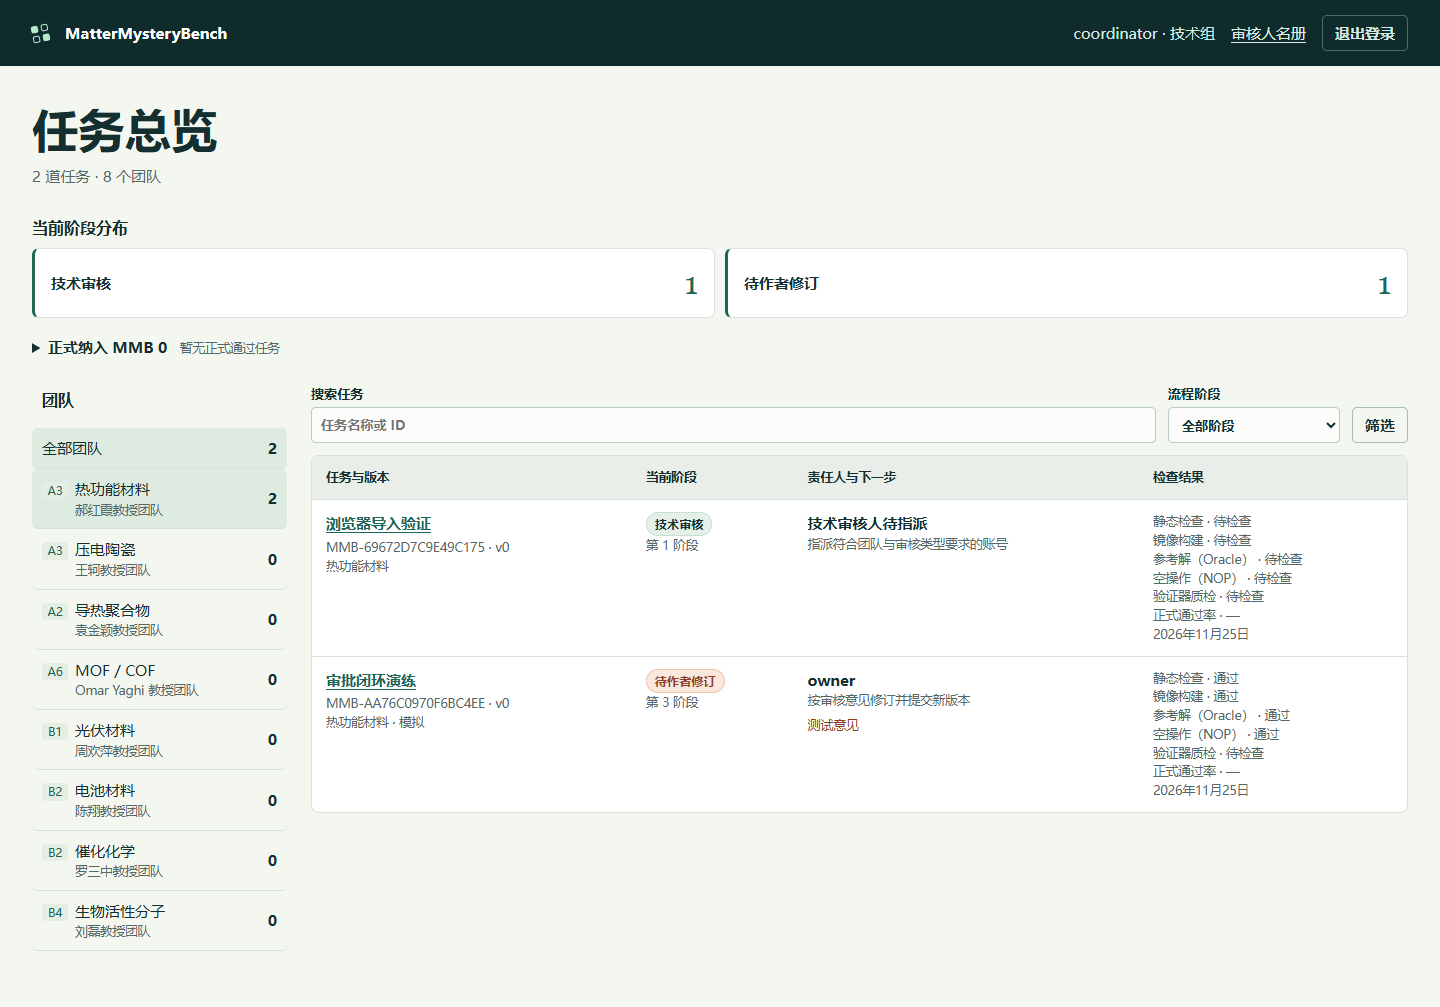
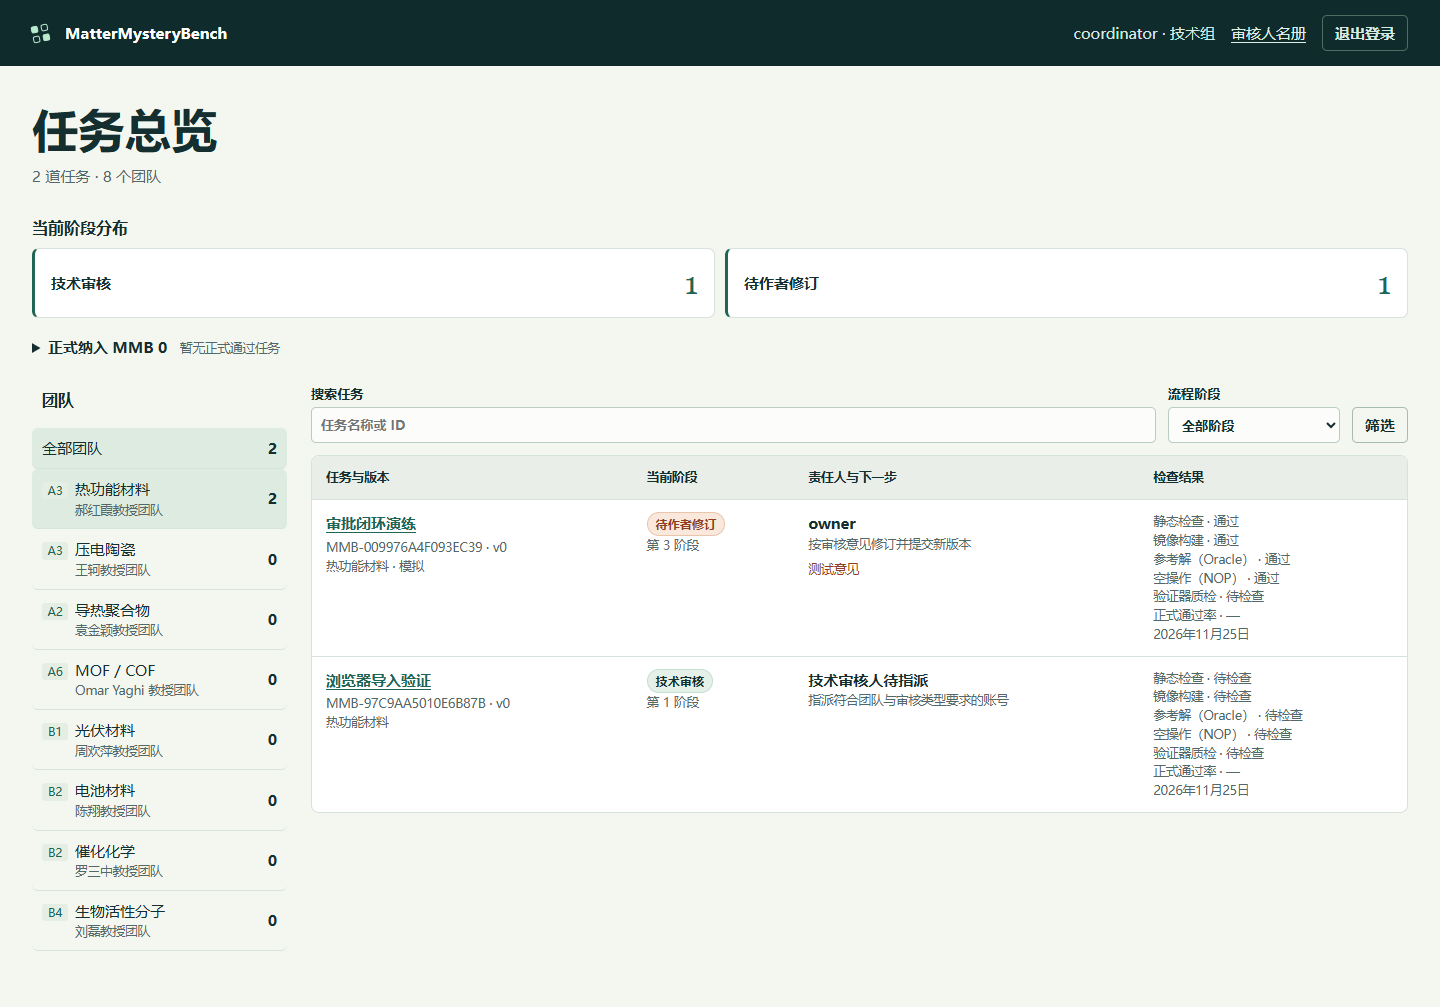
Show the full admission and revision loop on task pages

diff --git a/portal/mmb/static/portal.css b/portal/mmb/static/portal.css
@@ -47,6 +47,48 @@ th{background:#e9efe8;font-size:.79rem}tr:last-child td{border-bottom:0}td small
 .approval-current{display:grid;grid-template-columns:1fr 1fr 1.6fr;gap:10px;padding:12px 14px;background:#edf5ee;border-radius:7px;margin-bottom:14px}
 .approval-current small,.approval-current strong,.approval-current div>span{display:block}
 .approval-current p{grid-column:1/-1;margin:0}
+.workflow-map{--map-gap:14px;--map-line:#a0b5b3;margin-bottom:20px}
+.map-start{width:calc((100% - 2*var(--map-gap))/3)}
+.map-lanes{display:grid;grid-template-columns:repeat(3,minmax(0,1fr));gap:var(--map-gap)}
+.map-lane{display:flex;flex-direction:column;min-width:0;border:1px solid var(--line);border-radius:9px;background:#f5f9f8;scroll-margin-top:12px}
+.approval-overview .map-lane h3{display:flex;align-items:center;gap:8px;padding:10px 11px;border-bottom:1px solid #ccdddf;background:#e3eff0;border-radius:8px 8px 0 0;font-size:.91rem}
+.map-lane h3 span{font-size:.75rem;white-space:nowrap;color:#375b63}
+.map-lane-body{display:flex;flex:1;flex-direction:column;padding:10px 11px}
+.map-node{min-width:0;padding:7px 9px;border:1px solid #cadbd8;border-radius:6px;background:white;overflow-wrap:anywhere}
+.map-node-title{display:flex;align-items:baseline;justify-content:space-between;gap:4px;font-size:.84rem}
+.map-node small{display:block;margin-top:2px;font-size:.73rem;line-height:1.42}
+.map-node.map-evidence{background:#edf1f9;border-color:#d5dced}
+.map-node.map-decision{background:#edf3f3;border-color:#a9c2c4;text-align:center}
+.map-node.map-decision .map-node-title{justify-content:center}
+.map-node.map-success{background:#e8f2e7;border-color:#bfd4bd}
+.map-node.map-return-node{background:#f9f1e7;border-color:#e4cebb}
+.map-node.map-active{border-color:#246554;box-shadow:inset 3px 0 #246554;background:#e0f0e6}
+.map-node.map-return-node.map-active{background:#f7e1d1;border-color:#a65335;box-shadow:inset 3px 0 #a65335}
+.map-node.map-visited{border-color:#a9c6ba}
+.map-state{color:#1b604e;font-size:.71rem;white-space:nowrap;font-weight:700}
+.map-node.map-return-node.map-active .map-state{color:var(--warn)}
+.map-arrow{min-height:19px;display:flex;justify-content:center;align-items:center;gap:5px;color:#5d7b76;line-height:1}
+.map-arrow small{font-size:.69rem}
+.map-node-note{padding:3px 3px 0;font-size:.72rem;color:var(--muted)}
+.map-fork,.map-outcomes{display:grid;grid-template-columns:repeat(2,minmax(0,1fr));gap:6px}
+.map-fork{position:relative;padding-top:9px;margin-top:3px}
+.map-fork::before{content:"";position:absolute;left:25%;right:25%;top:3px;height:6px;border:1px solid var(--map-line);border-bottom:0}
+.map-single{grid-template-columns:1fr;padding-top:5px}.map-single::before{left:50%;right:auto;height:5px;border-right:0;border-top:0;top:0}
+.map-outcomes{grid-template-columns:repeat(3,minmax(0,1fr))}
+.map-outcomes .map-node-title{flex-wrap:wrap}
+.map-forward{display:flex;align-items:center;justify-content:center;flex-wrap:wrap;gap:7px;margin-top:auto;padding:10px 0 1px;font-size:.78rem;font-weight:700;text-decoration:none}
+.map-return-link{display:inline-block;margin-top:3px;color:#884a31;font-size:.71rem}
+.map-loop{scroll-margin-top:12px;margin-top:10px;padding:9px 11px;border:1px dashed #b9a58f;border-radius:7px;background:#fcf8f1}
+.map-loop-active{background:#fbebde;border-color:#a65335}
+.map-loop-header{display:flex;align-items:center;gap:6px;font-size:.85rem}
+.map-loop-header>span:first-child{font-size:1.1rem;color:var(--warn)}
+.map-loop-track{display:flex;gap:5px 12px;flex-wrap:wrap;list-style:none;margin:4px 0;padding:0;font-size:.79rem}
+.map-loop-track li:not(:last-child)::after{content:"→";margin-left:9px;color:var(--muted)}
+.map-loop-targets{display:flex;gap:4px 10px;flex-wrap:wrap;align-items:center;font-size:.77rem}
+.map-loop-targets a{padding:1px 6px;border:1px solid #ded1bf;border-radius:4px}
+.map-loop-targets .map-selected{background:#e0f0e6;border-color:#93b7a5;font-weight:700}
+.map-loop p{margin-top:5px;color:var(--warn);font-size:.79rem}
+.approval-detail-heading{margin-top:19px}
 .approval-stages{display:grid;grid-template-columns:repeat(3,minmax(0,1fr));gap:12px;list-style:none;margin:0;padding:0}
 .approval-stage{border:1px solid var(--line);border-radius:8px;padding:12px;min-width:0;background:#fcfdfb}
 .approval-stage.current{border:2px solid var(--accent);padding:11px;background:#f3faf3}
@@ -66,8 +108,6 @@ th{background:#e9efe8;font-size:.79rem}tr:last-child td{border-bottom:0}td small
 .workflow-header{display:flex;justify-content:space-between;align-items:center;gap:12px;margin-bottom:15px}
 .workflow-header h2{margin:0}.workflow-header>span{font-size:.85rem;color:var(--muted)}
 .workflow-note{margin-top:11px;color:var(--warn);font-size:.88rem}
-.workflow-return{display:flex;align-items:center;gap:7px;margin-top:12px;padding:7px 10px;border-radius:5px;border:1px dashed #baccc0;color:var(--muted);font-size:.84rem}
-.workflow-return>span{font-size:1.1rem}.workflow-return.active{background:#fbebde;border-color:#ac5a39;color:var(--warn)}
 .priority{border-left:4px solid var(--accent)}.back{display:inline-block;margin-top:25px}
 .back+.page-title{margin-top:13px}.notice{color:var(--accent);border-left:2px solid var(--accent);padding-left:9px}
 .assets{padding:0;list-style:none;max-height:360px;overflow:auto}.assets li{display:flex;gap:8px;justify-content:space-between;border-bottom:1px solid var(--line);padding:6px 0;overflow-wrap:anywhere}
@@ -82,5 +122,10 @@ dl{display:grid;grid-template-columns:108px 1fr;gap:4px}dd{margin:0;overflow-wra
 .error{color:var(--warn)}output:empty{display:none}output input{margin-bottom:5px}
 :focus-visible{outline:2px solid #bc671f;outline-offset:2px}
 @media(max-width:900px){.dashboard{grid-template-columns:205px minmax(0,1fr);gap:14px}.shell{padding-left:14px;padding-right:14px}.task-layout{grid-template-columns:1fr}}
-@media(max-width:770px){.approval-stages,.approval-current{grid-template-columns:1fr}}
+@media(max-width:850px){
+ .map-lanes,.approval-stages,.approval-current{grid-template-columns:1fr}
+ .map-start{width:100%}
+ .map-forward-arrow{transform:rotate(90deg)}
+}
+@media(max-width:440px){.map-outcomes{grid-template-columns:1fr}}
 @media(max-width:650px){.dashboard{grid-template-columns:1fr}.stage-summary a{padding:10px 12px}.mast-inner,.masthead nav{flex-wrap:wrap;gap:7px}.mast-inner{padding-block:8px}.masthead nav span{font-size:.76rem}.filters{flex-wrap:wrap}.page-title{align-items:start}aside{max-height:175px;overflow:auto}}

diff --git a/portal/mmb/templates/workflow_map.html b/portal/mmb/templates/workflow_map.html
@@ -1,0 +1,78 @@
+{% macro node(key, title, detail='', tone='') %}
+{% set active = diagram.current == key %}
+<div class="map-node {{ tone }}{% if active %} map-active{% elif key in diagram.visited %} map-visited{% endif %}" data-node="{{ key }}"{% if active %} aria-current="step"{% endif %}>
+<div class="map-node-title"><strong>{{ title }}</strong>{% if active %}<span class="map-state">当前</span>{% elif key in diagram.visited %}<span class="map-state">已到达</span>{% endif %}</div>
+{% if detail %}<small>{{ detail }}</small>{% endif %}
+{% if tone == 'map-return-node' %}<a class="map-return-link" href="#revision-loop">↺ 进入退修回路</a>{% endif %}
+</div>
+{% endmacro %}
+{% macro arrow(label='') %}<div class="map-arrow"><span aria-hidden="true">↓</span>{% if label %}<small>{{ label }}</small>{% endif %}</div>{% endmacro %}
+
+<section class="workflow-map" aria-label="任务全流程图">
+<div class="map-start">
+{{ node('submitted', '作者提交任务包', '当前版本 v' ~ task.version) }}
+{{ arrow() }}
+</div>
+<div class="map-lanes">
+<section class="map-lane" aria-labelledby="map-stage-one" id="workflow-stage-1">
+<h3 id="map-stage-one"><span>阶段 1</span> 技术审核</h3>
+<div class="map-lane-body">
+{{ node('technical-evidence', '机审与工具证据', '五项技术准则 · 参考解、验证与泄漏检查按需提供', 'map-evidence') }}
+{{ arrow('证据供审核人参考') }}
+{{ node('technical', '技术审核人签署', '核对题面、数据、工具、参考答案与评分可行性') }}
+<div class="map-fork" aria-label="技术审核分支">
+{{ node('auto-repair', '交 Coding Agent 修复', '回传新版本后复审', 'map-return-node') }}
+{{ node('technical-return', '退回作者修订', '审核意见随任务回传', 'map-return-node') }}
+</div>
+<a class="map-forward" href="#workflow-stage-2"><span>技术审核通过</span><span class="map-forward-arrow" aria-hidden="true">→</span><span>阶段 2</span></a>
+</div></section>
+
+<section class="map-lane" aria-labelledby="map-stage-two" id="workflow-stage-2">
+<h3 id="map-stage-two"><span>阶段 2</span> 环境构建与工程审核</h3>
+<div class="map-lane-body">
+{{ node('environment', '环境构建与交接', '登记隔离环境和交接证据') }}
+{{ arrow() }}
+{{ node('checks', '自动化检查', '静态检查 · 相似度检查 · 执行检查', 'map-evidence') }}
+<p class="map-node-note">执行检查包含沙盒构建、参考解（Oracle）和空操作（NOP）。</p>
+{{ arrow('按需附机审意见') }}
+{{ node('engineering-1', '工程审核人 1 初审', '检查执行结果并定位异常') }}
+{{ arrow() }}
+{{ node('engineering-2', '工程审核人 2 复核', '核对初审结论与修订建议') }}
+<div class="map-fork map-single" aria-label="工程复核退修分支">
+{{ node('engineering-return', '复核要求修改', '修订后重跑受影响的检查', 'map-return-node') }}
+</div>
+<a class="map-forward" href="#workflow-stage-3"><span>工程复核通过</span><span class="map-forward-arrow" aria-hidden="true">→</span><span>阶段 3</span></a>
+</div></section>
+
+<section class="map-lane" aria-labelledby="map-stage-three" id="workflow-stage-3">
+<h3 id="map-stage-three"><span>阶段 3</span> 难度验证与领域审核</h3>
+<div class="map-lane-body">
+{{ node('difficulty', '难度核验证据', '新颖性 · 代理性 · 人类基线。按需参考机审、试跑、提示和轨迹。', 'map-evidence') }}
+{{ arrow() }}
+{{ node('domain', '三位领域专家独立盲测和签署') }}
+{{ arrow() }}
+{{ node('decision', '三位专家的结论一致吗？', '', 'map-decision') }}
+<div class="map-fork map-domain-fork" aria-label="领域裁决分支">
+{{ node('unanimous', '一致', '采用一致意见') }}
+{{ node('senior', '有分歧', '转资深专家裁决') }}
+</div>
+{{ arrow('汇总最终结论') }}
+<div class="map-outcomes" aria-label="最终结论">
+{{ node('admitted', '模拟通过' if task.stage == 'SIMULATION_PASSED' else '通过 · 纳入 MMB', '冻结准入版本', 'map-success') }}
+{{ node('insufficient', '不可解或证据不足', '排查题目条件、参考解和环境', 'map-return-node') }}
+{{ node('too-easy', '太简单或难度不足', '参考轨迹定位原因并提高难度', 'map-return-node') }}
+</div>
+</div></section>
+</div>
+
+<div id="revision-loop" class="map-loop{% if diagram.returning %} map-loop-active{% endif %}" data-node="recheck">
+<div class="map-loop-header"><span aria-hidden="true">↺</span><strong>退修回路</strong>{% if diagram.returning %}<span class="map-state">当前走此回路</span>{% endif %}</div>
+<ol class="map-loop-track"><li>汇总退修意见</li><li>作者或 Coding Agent 提交新版本</li><li>按改动范围复审</li></ol>
+<div class="map-loop-targets"><span>可返回</span>
+{% for n, label in [(1, '技术审核'), (2, '环境构建与检查'), (3, '难度与领域复审')] %}
+<a href="#workflow-stage-{{ n }}"{% if diagram.restart == n %} class="map-selected"{% endif %}>阶段 {{ n }} · {{ label }}</a>
+{% endfor %}</div>
+{% if diagram.returning %}<p>本次由阶段 {{ task.phase }} 退回。提交新版本后，系统根据实际改动选择复审起点。</p>
+{% elif diagram.restart %}<p>当前版本从阶段 {{ diagram.restart }} 重新进入审核。</p>{% endif %}
+</div>
+</section>

diff --git a/portal/mmb/templates/task.html b/portal/mmb/templates/task.html
@@ -38,6 +38,8 @@
 <div><small>下一步</small><span>{{ task.next_action }}</span></div>
 {% if task.blocker and private %}<p class="error">{{ task.blocker }}</p>{% endif %}
 </div>
+{% include "workflow_map.html" %}
+<h2 class="approval-detail-heading">审核席位与检查结果</h2>
 <ol class="approval-stages">
 <li class="approval-stage{% if task.phase == 1 %} current{% endif %}" data-phase="1"{% if task.phase == 1 %} aria-current="step"{% endif %}>
 {{ header(1, '技术审核') }}
@@ -61,12 +63,6 @@
 </ul>
 </li>
 </ol>
-<div class="workflow-return{% if task.stage in ('REVISION_REQUIRED','AUTO_REPAIR') %} active{% endif %}">
-<span aria-hidden="true">↺</span>
-{% if task.stage in ('REVISION_REQUIRED','AUTO_REPAIR') %}<p><strong>{{ conclusions.get(outcome, '待修订') }}</strong> · 第 {{ task.phase }} 阶段退回，提交新版本后重新检查受影响环节。</p>
-{% elif task.version %}<p><strong>已修订 {{ task.version }} 次</strong> · 可在版本历史中查看变更与复审记录。</p>
-{% else %}<p>退回修订后，按改动范围重新执行受影响的审核与检查。</p>{% endif %}
-</div>
 {% if legacy and task.phase == 1 %}<p class="workflow-note">旧流程的检查证据与时间线已保留。本任务等待新版技术审核签署。</p>{% endif %}
 </section>
 

diff --git a/portal/mmb/presentation.py b/portal/mmb/presentation.py
@@ -1,7 +1,7 @@
 """Chinese Portal labels and the read-only workflow visualization."""
 import re
 
-from .review import STAGES as REVIEW_STAGES
+from .review import DOMAIN_SLOTS, REPAIR, STAGES as REVIEW_STAGES
 
 STAGES = {key: value[0] for key, value in REVIEW_STAGES.items()}
 TEAMS = dict(zip(
@@ -67,3 +67,47 @@ def message(value):
     if match := re.fullmatch(r"Rerun preflight and confirm (\w+) passes for (.+)\.", value):
         return f"重新运行预审，确认 {match[2]} 通过 {match[1]} 检查。"
     return value
+
+
+FLOW_NODE = {
+    "TECHNICAL_REVIEW": "technical",
+    "ENVIRONMENT_CONSTRUCTION": "environment",
+    "ENGINEERING_CHECKS": "checks",
+    "ENGINEERING_REVIEW_1": "engineering-1",
+    "ENGINEERING_REVIEW_2": "engineering-2",
+    "DOMAIN_REVIEW": "domain",
+    "SENIOR_REVIEW": "senior",
+    "AUTO_REPAIR": "auto-repair",
+    "READY_MAIN": "admitted",
+    "SIMULATION_PASSED": "admitted",
+}
+RETURN_NODE = {"AUTHOR_FIX": "technical-return", "NEEDS_CHANGES": "engineering-return",
+               "INSUFFICIENT": "insufficient", "TOO_EASY": "too-easy"}
+
+
+def workflow_diagram(state, restart):
+    stage = state["stage"]
+    decisions = state["decisions"]
+    visited = {"submitted"}
+    if decisions.get("technical"):
+        visited.add("technical")
+    if any(key.startswith("TECHNICAL_REVIEW/") for key in state["support"]):
+        visited.add("technical-evidence")
+    if state["environment"]:
+        visited.add("environment")
+        if stage != "ENGINEERING_CHECKS":
+            visited.add("checks")
+    for slot, node in (("engineering_1", "engineering-1"), ("engineering_2", "engineering-2"),
+                       ("senior", "senior")):
+        if slot in decisions:
+            visited.add(node)
+    if state["baselines"] or state["trials"]:
+        visited.add("difficulty")
+    if any(slot in decisions for slot in DOMAIN_SLOTS):
+        visited.add("domain")
+    if all(slot in decisions for slot in DOMAIN_SLOTS):
+        visited.add("decision")
+        if len({decisions[slot]["conclusion"] for slot in DOMAIN_SLOTS}) == 1:
+            visited.add("unanimous")
+    current = RETURN_NODE.get(state["outcome"]) if stage == "REVISION_REQUIRED" else FLOW_NODE.get(stage)
+    return {"current": current, "visited": visited, "returning": stage in REPAIR, "restart": restart}

diff --git a/portal/tests/browser_e2e.py b/portal/tests/browser_e2e.py
@@ -82,6 +82,10 @@ def run():
                 tech = login(browser, base, "tech")
                 tech.goto(url)
                 expect(tech.locator('[data-phase="1"][aria-current=step]')).to_be_visible()
+                expect(tech.locator('.workflow-map [aria-current="step"]')).to_have_attribute("data-node", "technical")
+                for node in ("auto-repair", "technical-return", "engineering-return", "senior", "admitted",
+                             "insufficient", "too-easy", "recheck"):
+                    expect(tech.locator(f'.workflow-map [data-node="{node}"]')).to_be_visible()
                 sign(tech, "PASS")
                 expect(tech.locator('[data-phase="2"][aria-current=step]')).to_be_visible()
                 coordinator.goto(url)
@@ -131,11 +135,18 @@ def run():
                 senior = login(browser, base, "senior")
                 senior.goto(url)
                 expect(senior.locator(".approval-current")).to_contain_text("资深专家裁决")
+                expect(senior.locator('.workflow-map [aria-current="step"]')).to_have_attribute("data-node", "senior")
                 expect(senior.get_by_role("heading", name="已签署意见")).to_be_visible()
                 sign(senior, "TOO_EASY")
                 expect(senior.locator(".approval-current")).to_contain_text("待作者修订")
                 author.goto(url)
                 expect(author.get_by_role("heading", name="作者修订")).to_be_visible()
+                expect(author.locator('.workflow-map [aria-current="step"]')).to_have_attribute("data-node", "too-easy")
+                expect(author.locator(".map-loop-active")).to_contain_text("当前走此回路")
+                author.locator('[data-node="too-easy"] a').click()
+                expect(author).to_have_url(url + "#revision-loop")
+                author.set_viewport_size({"width": 390, "height": 844})
+                assert author.locator("body").evaluate("(body) => body.scrollWidth") <= 390
                 coordinator.goto(base)
                 coordinator.screenshot(path=output / "dashboard.png", full_page=True)
                 browser.close()

diff --git a/portal/mmb/web.py b/portal/mmb/web.py
@@ -244,8 +244,11 @@ def create_app(config=None):
             assigned = review.reviewer_slot(task, state, g.actor)
             released = all(key in state["decisions"] for key in review.DOMAIN_SLOTS)
             events = []
+            restart = None
             for row in db.execute("SELECT * FROM events WHERE task=? ORDER BY sequence DESC", (task_id,)).fetchall():
                 data = json.loads(row["data"])
+                if row["kind"] == "REVISE" and row["version"] == state["version"]:
+                    restart = data.get("restart_stage")
                 own = row["actor"] == g.actor["id"]
                 if row["kind"] == "BASELINE" and not own and assigned in review.DOMAIN_SLOTS:
                     continue
@@ -268,10 +271,10 @@ def create_app(config=None):
                    if private and (key not in review.DOMAIN_SLOTS or key == assigned
                                    or (released and assigned not in review.DOMAIN_SLOTS))}
         return render_template(
-            "task.html", task=view, approvals=state["assignments"], options=options,
+            "task.html", task=view, diagram=presentation.workflow_diagram(state, restart), approvals=state["assignments"], options=options,
             reviews=reviews, signed=state["decisions"].keys(), baselines=state["baselines"].keys(),
             assigned=assigned, active_slots=review.STAGE_SLOTS.get(state["stage"], ()),
-            outcome=state["outcome"], legacy=state.get("legacy_stage"), environment=state["environment"],
+            legacy=state.get("legacy_stage"), environment=state["environment"],
             files=files, private=private, events=events, versions=versions,
             issues=state["issues"] if private else {},
             checks=state["checks"] if private else {}, support=state["support"] if private else {},
